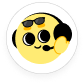
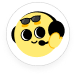
[ design ] 이미지 수정

diff --git a/naechinso-web/src/@components/@common/WorkCertified.tsx b/naechinso-web/src/@components/@common/WorkCertified.tsx
@@ -3,7 +3,7 @@ import styled from "styled-components";
 
 import { patchMemberEdu, patchMemberJob } from "../../apis/member.api";
 import { postCertifiedImg } from "../../apis/s3.api";
-import { IcPlus, IcSpeechBubble } from "../../asset/icons";
+import { IcPlus } from "../../asset/icons";
 import { ImgConsultantNaechinso } from "../../asset/image";
 import { routePaths } from "../../core/routes/path";
 import FixedHeader from "./FixedHeader";
@@ -115,12 +115,9 @@ export default function WorkCertified(props: WorkCertifiedProps) {
       </St.ImageUploadBox>
       <St.ImageUpload type="file" accept="image/*" id="input-file" onChange={previewImgFile} ref={imgRef} />
 
-      <St.ConsultantWrapper>
-        <IcSpeechBubble />
-        <St.ConsultantBtn type="button" onClick={handleOpenChannel}>
-          <St.ConsultantNaechinso src={ImgConsultantNaechinso} alt="상담원 내친소 아이콘" />
-        </St.ConsultantBtn>
-      </St.ConsultantWrapper>
+      <St.ConsultantBtn type="button" onClick={handleOpenChannel}>
+        <St.ConsultantNaechinso src={ImgConsultantNaechinso} alt="상담원 내친소 아이콘" />
+      </St.ConsultantBtn>
 
       <MoveNextPageBtn nextPage={routePaths.Finish} title="완료" inputActive={!fileChecked} />
     </St.WorkCertified>
@@ -154,13 +151,11 @@ const St = {
     height: 100%;
     border-radius: 16px;
   `,
-  ConsultantWrapper: styled.article`
-    display: flex;
-    align-items: center;
+  // ConsultantWrapper: styled.article``,
+  ConsultantBtn: styled.button`
     position: absolute;
     right: 2.4rem;
     bottom: 12.4rem;
   `,
-  ConsultantBtn: styled.button``,
   ConsultantNaechinso: styled.img``,
 };

diff --git a/naechinso-web/src/asset/icons/index.tsx b/naechinso-web/src/asset/icons/index.tsx
@@ -16,7 +16,6 @@ export { ReactComponent as IcPreviousBtn } from "./previousBtn.svg";
 export { ReactComponent as IcRecommenderLanding } from "./recommenderLanding.svg";
 export { ReactComponent as IcRelationChecked } from "./relationChecked.svg";
 export { ReactComponent as IcSheild } from "./sheild.svg";
-export { ReactComponent as IcSpeechBubble } from "./speechBubble.svg";
 export { ReactComponent as IcTipCheck } from "./tipCheck.svg";
 export { ReactComponent as IcToggleArrow } from "./toggleArrow.svg";
 export { ReactComponent as IcUnChecked } from "./unChecked.svg";

diff --git a/naechinso-web/src/@components/LandingPage/index.tsx b/naechinso-web/src/@components/LandingPage/index.tsx
@@ -21,7 +21,6 @@ export default function LandingPage() {
 
   return (
     <St.LandingPage onKeyUp={onEnterKeyUp}>
-      <input />
       <LandingBox setAccessToken={setAccessToken} handleMoveLandingPage={handleMoveLandingPage} />
       <St.Bottom>
         <St.DescWrapper>
@@ -47,7 +46,7 @@ const St = {
     width: 100%;
     height: 100%;
     background-color: ${({ theme }) => theme.colors.neural};
-    padding-top: 30%;
+    padding-top: 25%;
   `,
   Bottom: styled.article`
     width: 100%;
